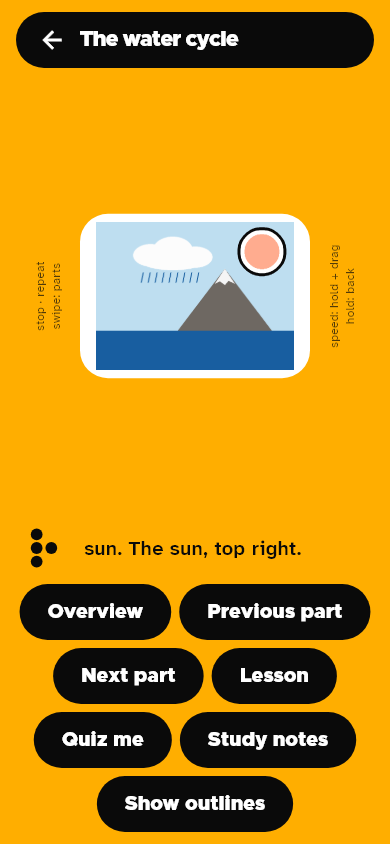
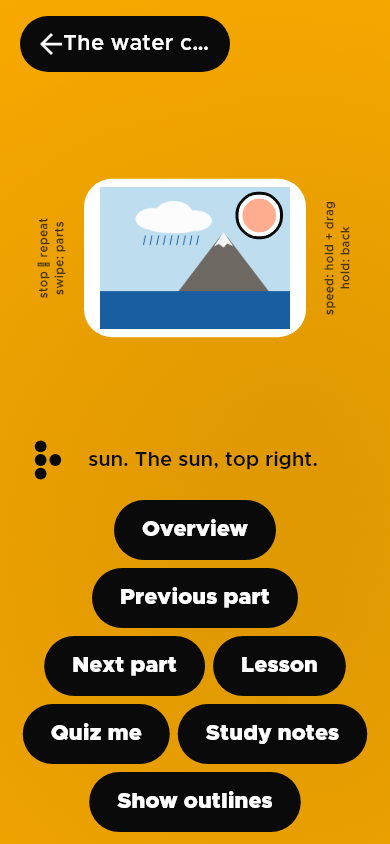
docs: regenerate screenshots for the reshelled UI

diff --git a/README.md b/README.md
@@ -30,14 +30,14 @@ Regenerate them with the golden-test generator in `tool/` (see `docs/screenshots
 <div align="center">
 <table>
 <tr>
-<td align="center"><img src="docs/screenshots/01-home.png" width="250" alt="Home: the braille-R dots, the word Resonant, three wide buttons (Choose a picture, Take a photo, Try the sample), a card explaining how exploring works, and the theme line"><br><b>Home</b><br><sub>Pick a picture, or try the sample</sub></td>
-<td align="center"><img src="docs/screenshots/02-explore.png" width="250" alt="Explore: the sample landscape with the sun outlined, its spoken caption below, gesture strips on both sides, and buttons for Overview, Previous and Next part, Lesson, Quiz me, Talk live and Study notes"><br><b>Explore</b><br><sub>The sun, outlined and captioned</sub></td>
+<td align="center"><img src="docs/screenshots/01-home.png" width="250" alt="Home: a seven-line menu on orange — Talk, Pictures, Lessons, Quiz, Notes, Settings, Quit — with Talk focused"><br><b>Home</b><br><sub>Talk, explore, study — in seven lines</sub></td>
+<td align="center"><img src="docs/screenshots/02-explore.png" width="250" alt="Explore: the sample landscape with the sun outlined, its spoken caption below, gesture strips on both sides, and buttons for Overview, Previous and Next part, Lesson, Quiz me and Study notes"><br><b>Explore</b><br><sub>The sun, outlined and captioned</sub></td>
 <td align="center"><img src="docs/screenshots/03-study-notes.png" width="250" alt="Study notes: the picture as plain text — title, a Copy notes to share button, overview, the map in words, and every part with its description and clock position"><br><b>Study notes</b><br><sub>The whole picture as readable text</sub></td>
 </tr>
 <tr>
 <td align="center"><img src="docs/screenshots/04-lesson.png" width="250" alt="Lesson mode: the picture above the caption 'Lesson. Welcome to the lesson.' and Previous step, Next step, Repeat and Back to exploring buttons"><br><b>Lesson</b><br><sub>A guided walk through the parts</sub></td>
 <td align="center"><img src="docs/screenshots/05-quiz.png" width="250" alt="Quiz mode: the caption asks 'Quiz. 2 questions. Question 1. Find the sun.' with Answer by voice, Repeat question, Skip and Back to exploring buttons"><br><b>Quiz</b><br><sub>Find it by touch, or answer out loud</sub></td>
-<td align="center"><img src="docs/screenshots/06-theme-low-vision.png" width="250" alt="Home in the Low vision theme: yellow dots, wordmark and text on a near-black background, black buttons with white text, and a dark card with a yellow outline"><br><b>Low vision theme</b><br><sub>One of twelve, a tap away</sub></td>
+<td align="center"><img src="docs/screenshots/06-theme-low-vision.png" width="250" alt="Home in the Low vision theme: the seven-line menu in yellow on a near-black background"><br><b>Low vision theme</b><br><sub>One of twelve, a tap away</sub></td>
 </tr>
 </table>
 </div>
